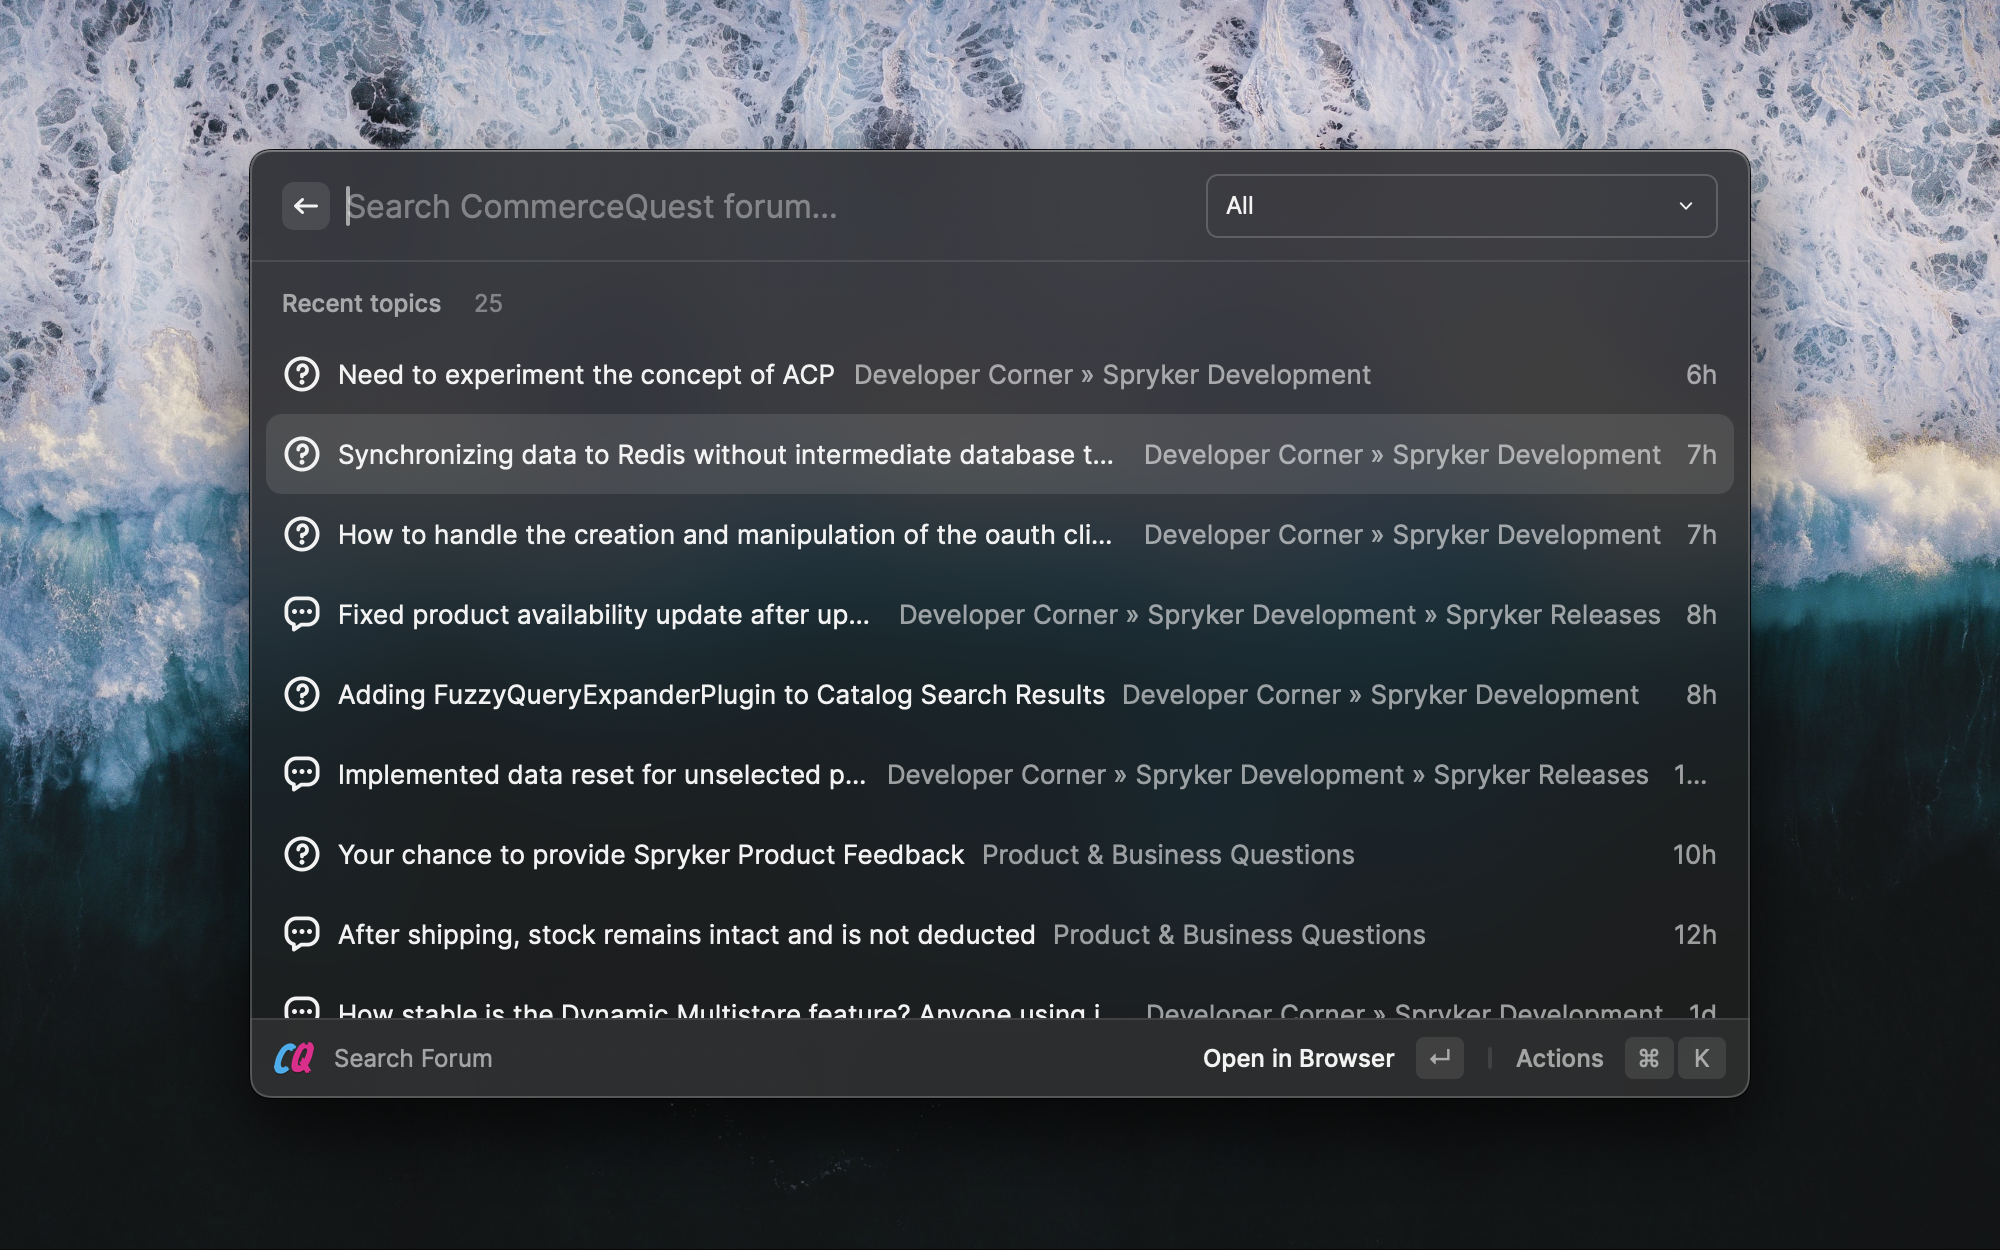
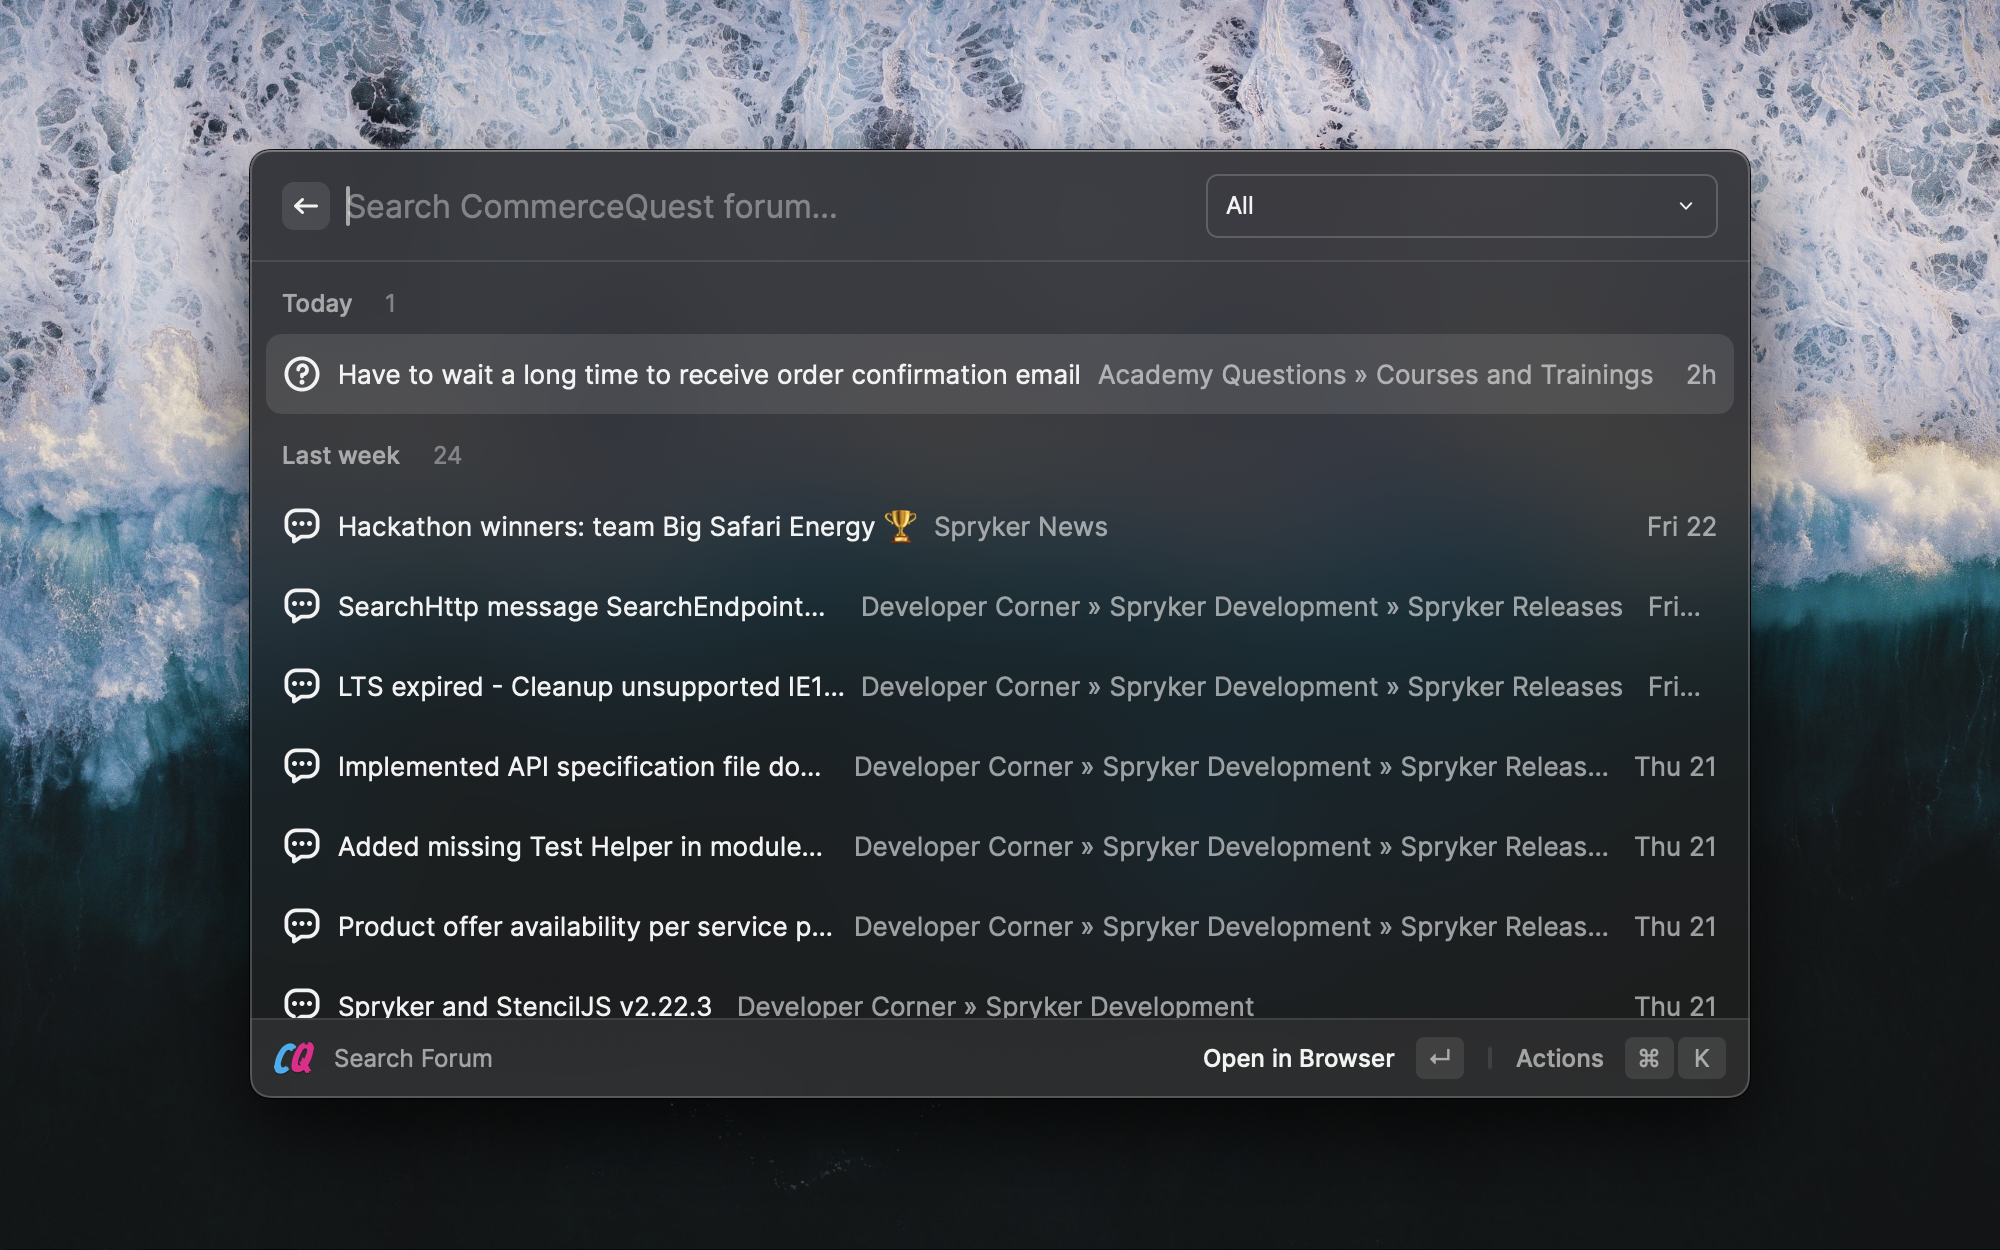
code refactoring, updated screenshots + changelog

diff --git a/src/search.tsx b/src/search.tsx
@@ -3,7 +3,7 @@ import { useFetch } from "@raycast/utils";
 import { useState } from "react";
 import { URLSearchParams } from "node:url";
 
-import { Breadcrumb, User, SearchResult, ItemType, ItemGroup } from "./lib/types";
+import { Breadcrumb, SearchResult, ItemType, ItemGroup } from "./lib/types";
 import SearchListItem from "./components/SearchListItem";
 import ItemTypeDropdown from "./components/ItemTypeDropdown";
 
@@ -50,14 +50,16 @@ function fetchItems(searchText: string, filterItemType: string) {
     collapse: "true",
     limit: getPreferenceValues().numSearchResults,
     locale: "en",
+    types: filterItemType,
   });
+
   searchParams.append("expand", "breadcrumbs");
   searchParams.append("expand", "-body");
   searchParams.append("expand", "insertUser");
-  searchParams.append("types", filterItemType);
 
   return useFetch("https://commercequest.space/api/v2/search?" + searchParams, {
     parseResponse: parseFetchResponse,
+    keepPreviousData: true,
   });
 }
 
@@ -68,54 +70,32 @@ async function parseFetchResponse(response: Response) {
     throw new Error("message" in json ? json.message : response.statusText);
   }
 
-  return json.map(
-    (result: {
-      breadcrumbs: Breadcrumb[];
-      recordID: string;
-      name: string;
-      recordType: string;
-      type: string;
-      dateUpdated: string;
-      dateInserted: string;
-      url: string;
-      body: string;
-      insertUser?: User;
-    }) => {
-      let breadcrumbsFormatted = "";
-      const breadcrumbs: Breadcrumb[] = [];
-      if (result.breadcrumbs) {
-        // remove first breadcrumb because it is always "home"
-        result.breadcrumbs.shift();
+  return json.map((result: SearchResult) => {
+    let breadcrumbsFormatted = "";
+    const breadcrumbs: Breadcrumb[] = [];
+    if (result.breadcrumbs) {
+      // remove first breadcrumb because it is always "home"
+      result.breadcrumbs.shift();
 
-        // remove second one from array and add as start for breadcrumbs
-        const secondBreadcrumb = result.breadcrumbs.shift();
-        if (secondBreadcrumb) {
-          breadcrumbsFormatted = secondBreadcrumb.name;
-          breadcrumbs.push(secondBreadcrumb);
-        }
-
-        // append remaining breadcrumbs
-        result.breadcrumbs.forEach(function (breadcrumb: Breadcrumb) {
-          breadcrumbsFormatted = breadcrumbsFormatted + " » " + breadcrumb.name;
-          breadcrumbs.push(breadcrumb);
-        });
+      // remove second one from array and add as start for breadcrumbs
+      const secondBreadcrumb = result.breadcrumbs.shift();
+      if (secondBreadcrumb) {
+        breadcrumbsFormatted = secondBreadcrumb.name;
+        breadcrumbs.push(secondBreadcrumb);
       }
 
-      return {
-        recordID: result.recordID,
-        name: result.name,
-        recordType: result.recordType,
-        type: result.type,
-        dateUpdated: result.dateUpdated,
-        dateInserted: result.dateInserted,
-        url: result.url,
-        breadcrumbsFormatted: breadcrumbsFormatted,
-        breadcrumbs: breadcrumbs,
-        body: result.body,
-        insertUser: result.insertUser ? (result.insertUser as User) : null,
-      } as SearchResult;
+      // append remaining breadcrumbs
+      result.breadcrumbs.forEach(function (breadcrumb: Breadcrumb) {
+        breadcrumbsFormatted = breadcrumbsFormatted + " » " + breadcrumb.name;
+        breadcrumbs.push(breadcrumb);
+      });
     }
-  );
+
+    result.breadcrumbs = breadcrumbs;
+    result.breadcrumbsFormatted = breadcrumbsFormatted;
+
+    return result;
+  });
 }
 
 function groupItemsByDate(searchResults: SearchResult[]) {

diff --git a/src/components/PreviewDetail.tsx b/src/components/PreviewDetail.tsx
@@ -3,7 +3,7 @@ import { SearchResult } from "../lib/types";
 import { mapIconCode } from "../lib/utils";
 import html2md from "html-to-md";
 
-export default function Preview(searchResult: SearchResult) {
+export default function PreviewDetail(searchResult: SearchResult) {
   return (
     <Detail
       isLoading={false}
@@ -42,10 +42,14 @@ export default function Preview(searchResult: SearchResult) {
             ))}
           </Detail.Metadata.TagList>
           <Detail.Metadata.Separator />
-          {searchResult.insertUser != null && searchResult.insertUser.name ? (
+          {searchResult.insertUser?.name ? (
             <Detail.Metadata.Label
               title="Author"
-              icon={searchResult.insertUser.photoUrl ? searchResult.insertUser.photoUrl : Icon.Person}
+              icon={
+                searchResult.insertUser.photoUrl && searchResult.insertUser.name != "System"
+                  ? searchResult.insertUser.photoUrl
+                  : Icon.Person
+              }
               text={searchResult.insertUser.name}
             />
           ) : null}

diff --git a/src/components/SearchListItem.tsx b/src/components/SearchListItem.tsx
@@ -1,7 +1,7 @@
 import { SearchResult } from "../lib/types";
 import { Action, ActionPanel, List } from "@raycast/api";
 import { mapIconCode } from "../lib/utils";
-import Preview from "./Preview";
+import PreviewDetail from "./PreviewDetail";
 
 export default function SearchListItem({ searchResult }: { searchResult: SearchResult }) {
   const date = new Date(searchResult.dateUpdated ? searchResult.dateUpdated : searchResult.dateInserted);
@@ -18,7 +18,7 @@ export default function SearchListItem({ searchResult }: { searchResult: SearchR
           <ActionPanel.Section>
             <Action.OpenInBrowser url={searchResult.url} />
             {searchResult.type != "category" ? (
-              <Action.Push title="Preview" target={<Preview {...searchResult} />} />
+              <Action.Push title="PreviewDetail" target={<PreviewDetail {...searchResult} />} />
             ) : null}
           </ActionPanel.Section>
         </ActionPanel>

diff --git a/CHANGELOG.md b/CHANGELOG.md
@@ -1,6 +1,9 @@
 # CommerceQuest.space Changelog
 
-## [Filter Searchresults by Type] - 2023-09-23
+## [Group Search-results by date] - 2023-09-24
+- Search-results are now grouped by `today`, `yesterday`, `last week` and `older`
+
+## [Filter Search-results by Type] - 2023-09-23
 - Added a Dropdown to filter Search-results by Type  
 
 ## [Detail View] - 2023-09-18
